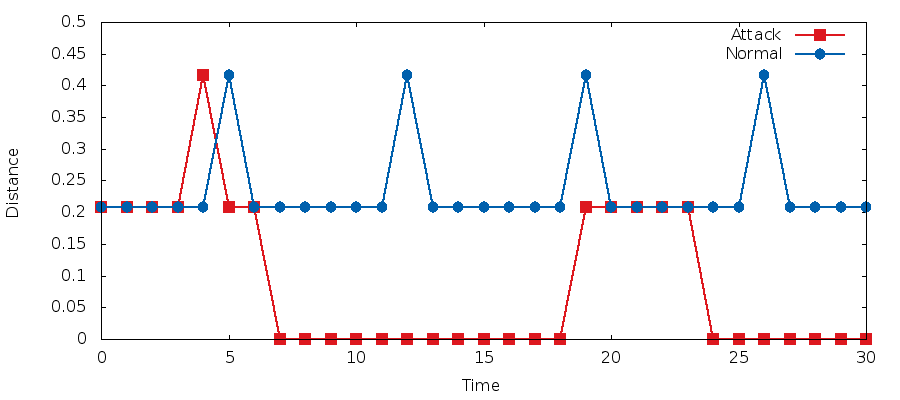
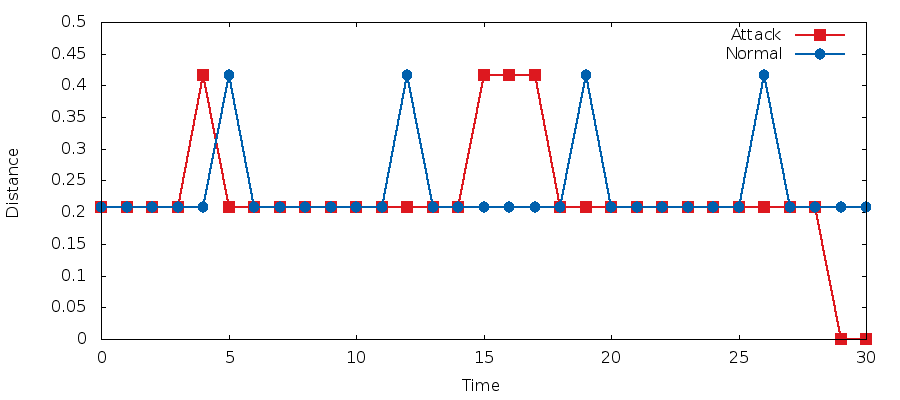
measurement of the two computing distance approach

diff --git a/spec_ids/gen-py/IDSControllerPy/test.py b/spec_ids/gen-py/IDSControllerPy/test.py
@@ -11,9 +11,11 @@ logging.basicConfig(level=logging.DEBUG,
                     filename=log,
                     filemode='w')
 
-path = 'requirements_test.yml'
+critical = 'requirements_test.yml'
+normal = 'normal_test.yml'
 
-s = State(path)
+state_critical = State(critical)
+state_normal = State(normal)
 
 T1 = "tank1"
 VT = "valvecharcoal"
@@ -24,53 +26,77 @@ M1 = "motor1"
 M2 = "motor2"
 S2 = "silo2"
 
-s.var[T1].value = 0
-s.var[VT].value = 0
-s.var[WC].value = 0
-s.var[WE].value = 0
-s.var[TF].value = 0
-s.var[M1].value = 0
-s.var[M2].value = 0
-s.var[S2].value = 0
+state_normal.var[T1].value = 0
+state_normal.var[VT].value = 0
+state_normal.var[WC].value = 0
+state_normal.var[WE].value = 0
+state_normal.var[TF].value = 0
+state_normal.var[M1].value = 0
+state_normal.var[M2].value = 0
+state_normal.var[S2].value = 0
 
-i, d = s.get_min_distance()
-a, e = s.get_max_distance()
-print "id: {}, d: {}".format(i, d)
-print "id: {}, d: {}".format(a, e)
-print "--------------------------"
-s.var[VT].value = 1
-s.var[T1].value = 20
+state_critical.var[T1].value = 0
+state_critical.var[VT].value = 0
+state_critical.var[WC].value = 0
+state_critical.var[WE].value = 0
+state_critical.var[TF].value = 0
+state_critical.var[M1].value = 0
+state_critical.var[M2].value = 0
+state_critical.var[S2].value = 0
+phase = 1
 
-i, d = s.get_min_distance()
-a, e = s.get_max_distance()
-print "id: {}, d: {}".format(i, d)
-print "id: {}, d: {}".format(a, e)
-print "--------------------------"
-s.var[VT].value = 0
-s.var[WC].value = 20
-s.var[T1].value = 40
+def change_value(name, value):
+    state_critical.var[name].value = value
+    state_normal.var[name].value = value
 
-i, d = s.get_min_distance()
-a, e = s.get_max_distance()
-print "id: {}, d: {}".format(i, d)
-print "id: {}, d: {}".format(a, e)
-print "--------------------------"
-s.var[M1].value = 1
-s.var[WE].value = 1
+def display_distance():
+    global phase
+    identifier_crit, dist_crit = state_critical.get_min_distance()
+    identifier_normal, dist_normal = state_normal.get_max_distance()
+    print "*********Phase {}**********".format(phase)
+    print "Critical id: {}, d: {}".format(identifier_crit, dist_crit)
+    print "Normal id: {}, d: {}".format(identifier_normal, dist_normal)
+    print "--------------------------"
+    phase += 1
+display_distance()
 
-i, d = s.get_min_distance()
-a, e = s.get_max_distance()
-print "id: {}, d: {}".format(i, d)
-print "id: {}, d: {}".format(a, e)
-print "--------------------------"
+#Phase 1
+change_value(VT, 1)
+change_value(T1, 20)
 
-s.var[M1].value = 0
-s.var[WE].value = 0
-s.var[S2].value = 20
-s.var[WC].value = 0
+display_distance()
 
-i, d = s.get_min_distance()
-a, e = s.get_max_distance()
-print "id: {}, d: {}".format(i, d)
-print "id: {}, d: {}".format(a, e)
-print "--------------------------"
+#Phase 2
+change_value(VT, 0)
+change_value(WC, 20)
+change_value(T1, 40)
+
+display_distance()
+
+#Phase 3
+change_value(M1, 1)
+change_value(WE, 1)
+
+display_distance()
+
+#Phase 4
+change_value(M1, 0)
+change_value(T1, 0)
+change_value(S2, 20)
+change_value(WC, 0)
+
+display_distance()
+
+#Phase 5
+change_value(S2, 60)
+change_value(WE, 0)
+change_value(T1, 20)
+
+display_distance()
+
+#Phase 6
+change_value(M2, 1)
+change_value(VT, 1)
+change_value(T1, 40)
+
+display_distance()

diff --git a/spec_ids/gen-py/IDSControllerPy/stateCompute.py b/spec_ids/gen-py/IDSControllerPy/stateCompute.py
@@ -105,10 +105,11 @@ class State():
             tmp = max_dist
             i = Interpreter(None, self.var, NUM_WEIGHT, BOOL_WEIGHT)
             req = i.visit(requirement.content)
+            print i.distances
             at_least_one = (at_least_one or req)
 
             if max_dist is None:
-                max_dist = i.compute_distance(num_var, bool_var)
+                max_dist = i.compute_distance(num_var, bool_var, False)
                 identifier = requirement.identifier
             else:
                 d = i.compute_distance(num_var, bool_var)
